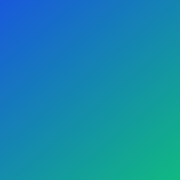
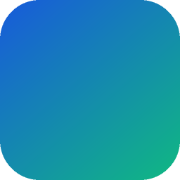
favicontam

diff --git a/_layouts/default.html b/_layouts/default.html
@@ -6,8 +6,11 @@
   <title>{% if page.title %}{{ page.title }} · {% endif %}{{ site.title }}</title>
   <meta name="description" content="{{ page.excerpt | default: site.description | strip_html | strip_newlines | truncate: 160 }}">
   <link rel="stylesheet" href="{{ '/assets/css/style.css' | relative_url }}?v={{ site.time | date: '%s' }}">
-  <link rel="icon" type="image/png" href="{{ '/assets/images/favicon.png' | relative_url }}">
-  <link rel="apple-touch-icon" href="{{ '/assets/images/favicon.png' | relative_url }}">
+  <link rel="icon" type="image/png" sizes="32x32" href="{{ '/assets/images/favicon-32x32.png' | relative_url }}">
+  <link rel="icon" type="image/png" sizes="16x16" href="{{ '/assets/images/favicon-16x16.png' | relative_url }}">
+  <link rel="icon" href="{{ '/favicon.ico' | relative_url }}" sizes="any">
+  <link rel="apple-touch-icon" sizes="180x180" href="{{ '/assets/images/apple-touch-icon.png' | relative_url }}">
+  <link rel="manifest" href="{{ '/site.webmanifest' | relative_url }}">
   <script>
   (function () {
     try {
